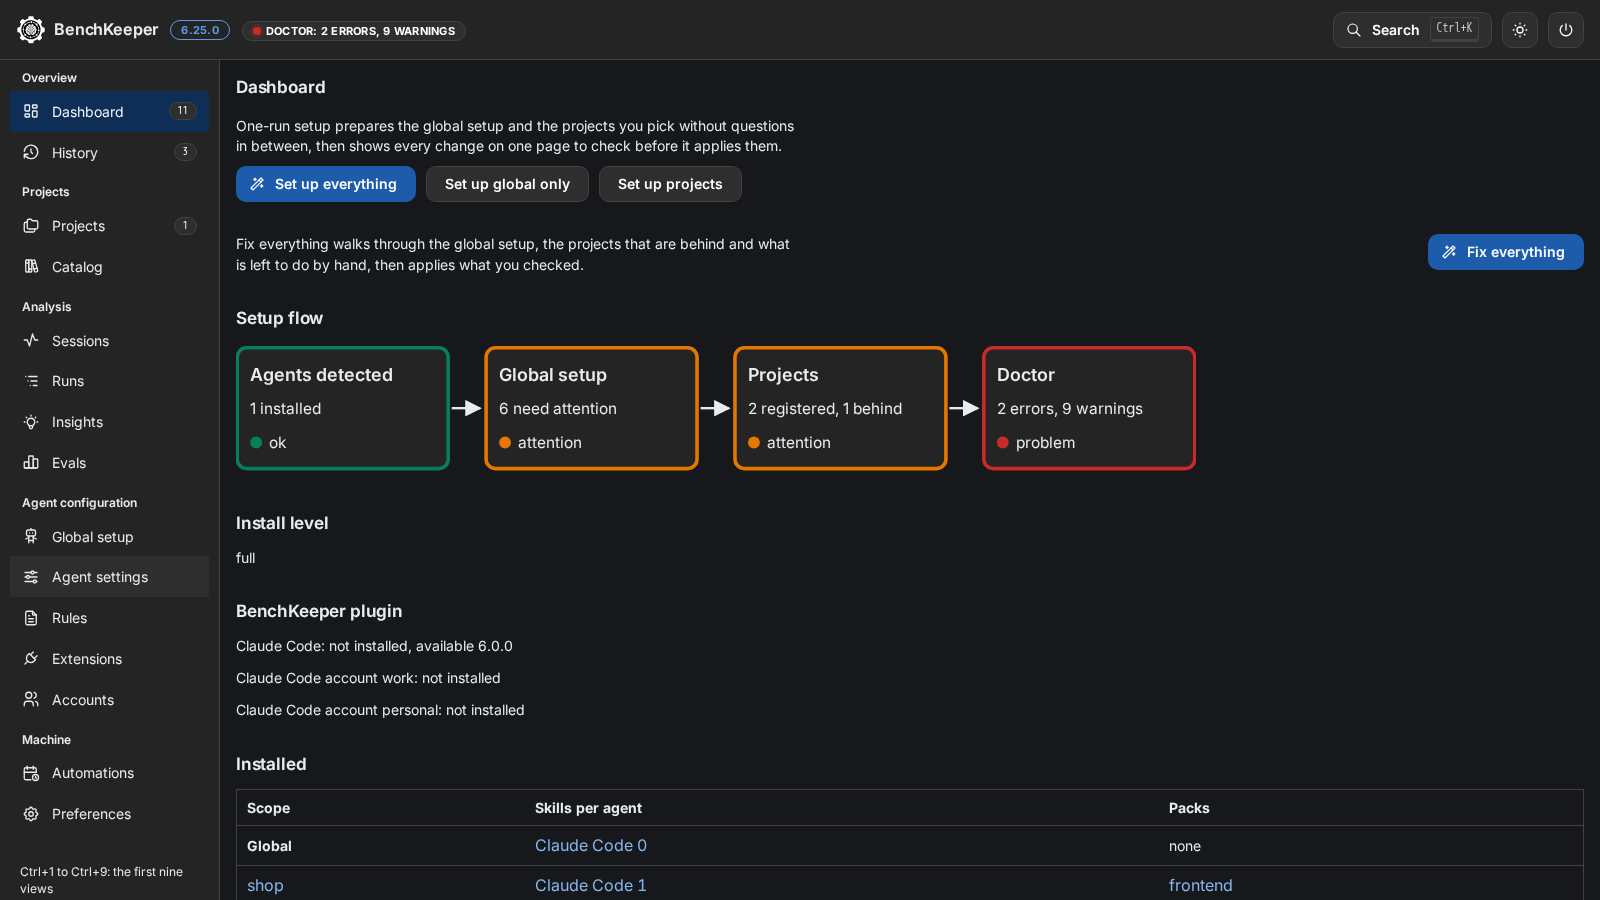
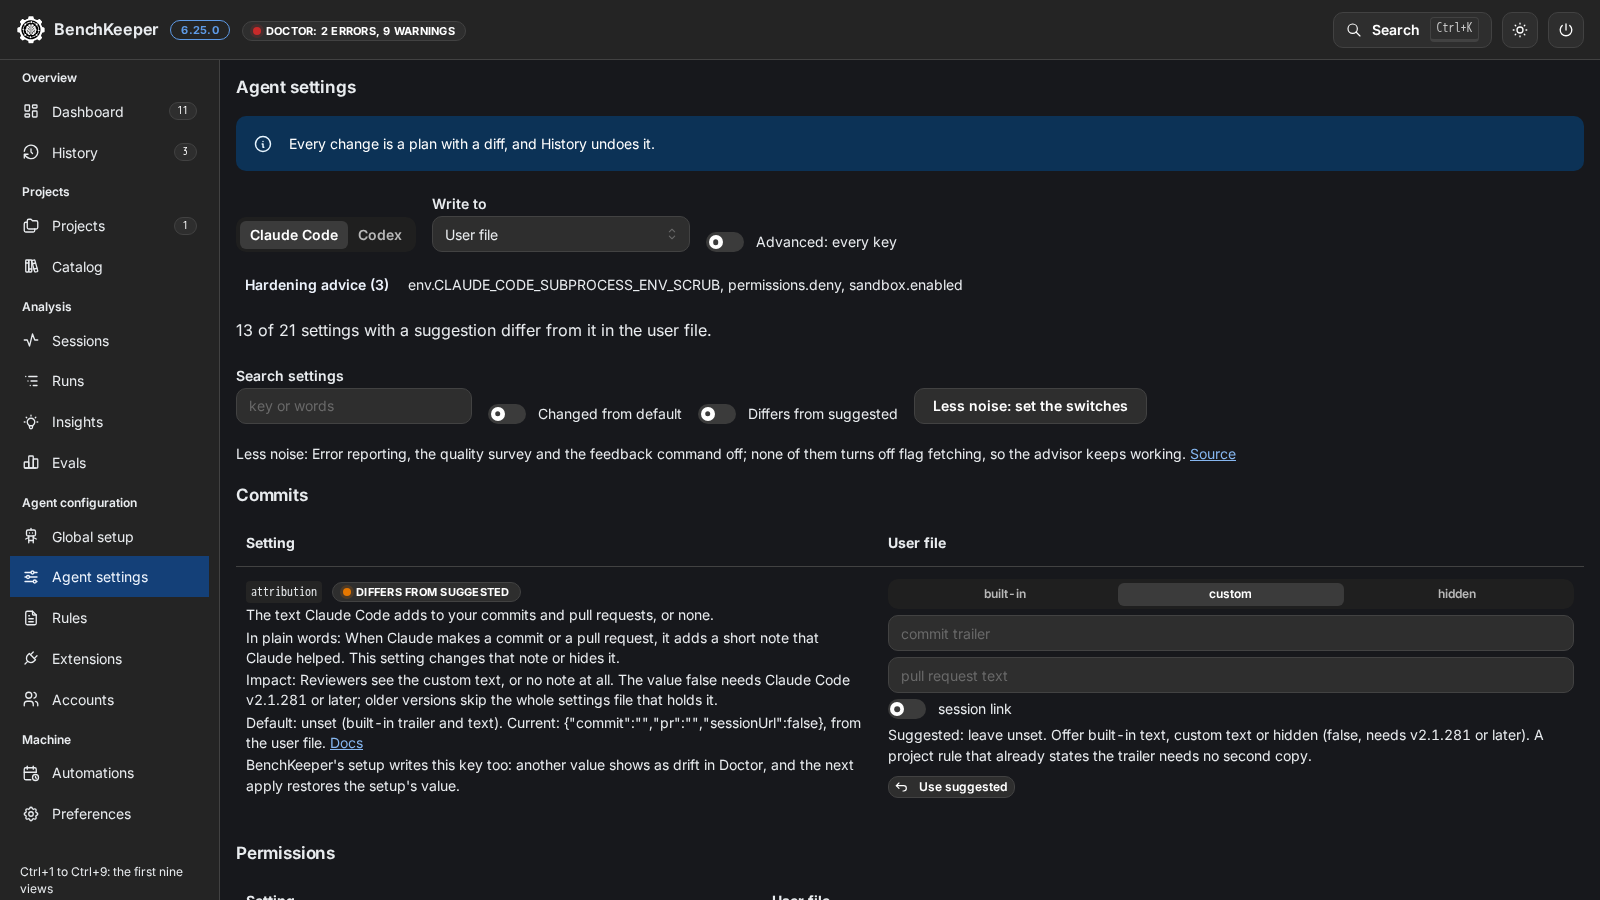
feat(app): agent settings compare each row with the suggestion
Each row marks whether the chosen file matches BenchKeeper's suggestion, shows the value in effect when another source wins, and Use suggested opens the change plan at once. Hardening advice folds into one line, conflicts stay in full with the default, the risk and what the fix changes on their own lines, and a note fix plans the suggestion of its setting. The settings files table folds to the foot of the page, the command line block is gone, and an empty search offers to clear the filters.

Refs #532

diff --git a/app/ui/agentsettings.jsx b/app/ui/agentsettings.jsx
@@ -1,9 +1,9 @@
-import { Anchor, Button, Code, Group, NumberInput, SegmentedControl, Select, Stack, Switch, Table, Text, TextInput } from '@mantine/core';
+import { Anchor, Badge, Button, Code, Group, NumberInput, SegmentedControl, Select, Stack, Switch, Table, Text, TextInput } from '@mantine/core';
 import { IconArrowBackUp, IconListCheck } from '@tabler/icons-react';
-import { useRef, useState } from 'react';
+import { useEffect, useRef, useState } from 'react';
 import { api } from './api.js';
-import { Cli, Plan, Section, SettingFacts } from './parts.jsx';
-import { Loading, Note, href, icon, useAnnounce, useApi } from './shell.jsx';
+import { Folded, Plan, Section, SettingFacts } from './parts.jsx';
+import { Dot, Loading, Note, href, icon, useAnnounce, useApi } from './shell.jsx';
 
 const LAYERS = { user: 'User file', project: 'Project file', local: 'Local file' };
 const SHOWN = 150;
@@ -12,13 +12,43 @@ const UNSET = '(unset)';
 const NOFADE = { label: { transition: 'none' } };
 const text = (v) => (v === undefined ? '' : typeof v === 'string' ? v : JSON.stringify(v));
 const KIND = { conflict: 'Conflicting settings', hardening: 'Hardening', ignored: 'Ignored setting', note: 'Note' };
+const FROM = { user: 'the user file', project: 'the project file', local: 'the local file', managed: 'managed settings', environment: 'the environment' };
+const ownOf = (row, layer) => row.sets?.find((x) => x.layer === layer)?.value;
+// What a suggestion compares with: an environment switch is set or not, "leave unset" is no value.
+const norm = (row, v) => (row.type === 'switch' ? v != null && v !== false : v ?? null);
+const matches = (row, v) => JSON.stringify(norm(row, v)) === JSON.stringify(norm(row, row.suggest.value));
+const differs = (row, layer) => !!row.suggest && !matches(row, ownOf(row, layer));
 
-// A note on the settings: what it found, the default, the risk and what the fix changes, then a button.
+// A note on the settings: what it found, then the default, the risk and what the fix changes on lines of their own, then the buttons.
 const SettingNote = ({ n, children }) => (
   <Note color={n.level === 'warning' ? 'yellow' : 'blue'}>
-    <Text span fw={600}>{KIND[n.kind]}. </Text>{n.message} {n.default} {n.risk} {n.fixChanges} <Anchor size="sm" c="inherit" underline="always" href={n.source} target="_blank" rel="noreferrer">Source</Anchor> {children}
+    <Stack gap={4}>
+      <Text size="sm"><Text span fw={600}>{KIND[n.kind]}. </Text>{n.message}</Text>
+      {n.default && <Text size="sm"><Text span fw={600}>Default: </Text>{n.default}</Text>}
+      {n.risk && <Text size="sm"><Text span fw={600}>Risk: </Text>{n.risk}</Text>}
+      {n.fixChanges && <Text size="sm"><Text span fw={600}>What the fix changes: </Text>{n.fixChanges}</Text>}
+      <Group gap="xs">{children}<Anchor size="sm" c="inherit" underline="always" href={n.source} target="_blank" rel="noreferrer">Source</Anchor></Group>
+    </Stack>
   </Note>
 );
+
+// Under the value: the value in effect when another file or the environment wins, then the suggestion with its marker.
+function Compare({ row, layer, own, edit, use }) {
+  const s = row.suggest;
+  const shown = edit === undefined ? own : edit;
+  return (
+    <>
+      {row.from !== layer && row.from !== 'default' && <Text size="sm">In effect: {text(row.value)}, from {FROM[row.from] ?? row.from}.</Text>}
+      {s && (matches(row, shown) ? <Text size="sm">Matches suggested{edit === undefined ? '' : ' (in your changes)'}.</Text> : (
+        <Group gap="xs">
+          <Text size="sm">Suggested: {s.value == null ? 'leave unset' : text(s.value)}. {s.reason}</Text>
+          {use && <Button size="compact-xs" variant="default" leftSection={icon(IconArrowBackUp)} aria-label={`Use suggested for ${row.key}`} onClick={use}>Use suggested</Button>}
+          {s.source && <Anchor underline="always" size="sm" href={s.source} target="_blank" rel="noreferrer">Source</Anchor>}
+        </Group>
+      ))}
+    </>
+  );
+}
 
 // One control for one key; edit is undefined (untouched), null (remove the key) or the new value.
 function ValueControl({ row, own, edit, setEdit }) {
@@ -64,24 +94,17 @@ function ValueControl({ row, own, edit, setEdit }) {
   }
 }
 
-function Row({ row, layer, edits, setEdit }) {
-  const own = row.sets?.find((x) => x.layer === layer)?.value;
+function Row({ row, layer, edits, setEdit, stage }) {
+  const own = ownOf(row, layer);
   const edit = edits[row.key];
-  const suggest = row.suggest;
+  const editable = row.editable !== false;
   return (
     <Table.Tr>
       <Table.Td>
         <Stack gap={2}>
-          <Code>{row.key}</Code>
+          <Group gap="xs"><Code id={`setting-${row.key}`} tabIndex={-1}>{row.key}</Code>{differs(row, layer) && <Badge variant="default" miw="max-content" leftSection={<Dot color="yellow" />}>Differs from suggested</Badge>}</Group>
           <SettingFacts f={row} />
           {row.setByApp && <Text size="sm">BenchKeeper's setup writes this key too: another value shows as drift in Doctor, and the next apply restores the setup's value.</Text>}
-          {suggest && (own === undefined && edit === undefined) && (
-            <Group gap="xs">
-              <Text size="sm">Suggested: {suggest.value == null ? 'leave unset' : text(suggest.value)}. {suggest.reason}</Text>
-              {suggest.value != null && <Button size="compact-xs" variant="default" leftSection={icon(IconArrowBackUp)} aria-label={`Use suggestion for ${row.key}`} onClick={() => setEdit(row.key, suggest.value)}>Use suggestion</Button>}
-              {suggest.source && <Anchor underline="always" size="sm" href={suggest.source} target="_blank" rel="noreferrer">Source</Anchor>}
-            </Group>
-          )}
           {row.notes?.map((n) => (
             <Note key={n.id} color={n.level === 'warning' ? 'yellow' : 'blue'} p="xs">
               {n.message} <Anchor size="sm" c="inherit" underline="always" href={n.source} target="_blank" rel="noreferrer">Source</Anchor>
@@ -89,18 +112,23 @@ function Row({ row, layer, edits, setEdit }) {
           ))}
         </Stack>
       </Table.Td>
-      <Table.Td miw={200}>{row.editable === false ? <Text size="sm">Not edited here: {row.masked ? 'it holds a secret, shown masked: edit the file by hand' : row.scope ? `it lives in the ${row.scope} file or layer` : 'it is a table, edit the file by hand'}.</Text> : <ValueControl row={row} own={own} edit={edit} setEdit={(v) => setEdit(row.key, v)} />}</Table.Td>
+      <Table.Td miw={200}>
+        <Stack gap={6}>
+          {editable ? <ValueControl row={row} own={own} edit={edit} setEdit={(v) => setEdit(row.key, v)} /> : <Text size="sm">Not edited here: {row.masked ? 'it holds a secret, shown masked: edit the file by hand' : row.scope ? `it lives in the ${row.scope} file or layer` : 'it is a table, edit the file by hand'}.</Text>}
+          <Compare row={row} layer={layer} own={own} edit={edit} use={editable ? () => stage({ [row.key]: row.suggest.value }) : undefined} />
+        </Stack>
+      </Table.Td>
     </Table.Tr>
   );
 }
 
-function Rows({ rows, layer, edits, setEdit, label }) {
+function Rows({ rows, layer, edits, setEdit, stage, label }) {
   if (!rows.length) return <Text size="sm">No setting matches.</Text>;
   return (
     <Table.ScrollContainer minWidth={720} scrollAreaProps={{ viewportProps: { tabIndex: 0, role: 'region', 'aria-label': `${label}, scrollable` } }}>
       <Table aria-label={label} verticalSpacing="sm">
         <Table.Thead><Table.Tr><Table.Th>Setting</Table.Th><Table.Th>{LAYERS[layer]}</Table.Th></Table.Tr></Table.Thead>
-        <Table.Tbody>{rows.map((r) => <Row key={r.key} row={r} layer={layer} edits={edits} setEdit={setEdit} />)}</Table.Tbody>
+        <Table.Tbody>{rows.map((r) => <Row key={r.key} row={r} layer={layer} edits={edits} setEdit={setEdit} stage={stage} />)}</Table.Tbody>
       </Table>
     </Table.ScrollContainer>
   );
@@ -113,12 +141,15 @@ function Editor({ data, agent, layer, dir, edits, setEdit: put, clear, advanced,
   const [error, setError] = useState(null);
   const [busy, setBusy] = useState(false);
   const [showDismissed, setShowDismissed] = useState(false);
+  const [only, setOnly] = useState(false);
+  const [showHardening, setShowHardening] = useState(false);
+  const [target, setTarget] = useState(null);
   // A plan holds the edits of its Review: a later edit drops it, and a pending Review's answer for older edits is ignored, so Apply never clears edits it did not write.
   const rev = useRef(0);
   const setEdit = (key, v) => { put(key, v); rev.current++; setPlan(null); };
   const count = Object.keys(edits).length;
   const q = search.trim().toLowerCase();
-  const match = (r) => (!q || `${r.key} ${r.summary ?? ''} ${r.sentence ?? ''}`.toLowerCase().includes(q)) && (!changed || r.changed);
+  const match = (r) => (!q || `${r.key} ${r.summary ?? ''} ${r.sentence ?? ''}`.toLowerCase().includes(q)) && (!changed || r.changed) && (!only || differs(r, layer));
   const basic = data.settings.filter(match);
   const groups = [...new Set(basic.map((r) => r.group))];
   const adv = (data.advanced ?? []).filter(match);
@@ -128,49 +159,65 @@ function Editor({ data, agent, layer, dir, edits, setEdit: put, clear, advanced,
     try { const p = await api('/api/settings-plan', { agent, layer, dir, ...body }); if (asked === rev.current) setPlan(p); } catch (e) { if (asked === rev.current) setError(e.message); }
     setBusy(false);
   };
+  // Use suggested and a note's fix: the values join the pending edits, and the plan of all of them opens at once.
+  const stage = (fix) => { for (const [k, v] of Object.entries(fix)) setEdit(k, v); review({ edits: { ...edits, ...fix } }); };
+  useEffect(() => { if (plan) document.getElementById('settings-changes-title')?.focus(); }, [plan]);
+  const clearFilters = () => { setSearch(''); setChanged(false); setOnly(false); };
+  // Go to the setting: a filter may hide its row, so focus waits for the render without filters.
+  useEffect(() => { if (target) { document.getElementById(`setting-${target}`)?.focus(); setTarget(null); } }, [target]);
+  const rowsOf = (n) => (n.keys ?? []).map((k) => data.settings.find((r) => r.key === k)).filter(Boolean);
+  const fixOf = (n) => Object.fromEntries(rowsOf(n).filter((r) => r.editable !== false && differs(r, layer)).map((r) => [r.key, r.suggest.value]));
+  const noteButtons = (n) => {
+    const fix = fixOf(n);
+    const first = rowsOf(n)[0];
+    return (
+      <>
+        {Object.keys(fix).length > 0 ? <Button size="compact-xs" variant="default" loading={busy} aria-label={`Fix, review the change: ${n.id}`} onClick={() => stage(fix)}>Fix: review the change</Button>
+          : first && <Button size="compact-xs" variant="default" aria-label={`Go to the setting: ${n.id}`} onClick={() => { clearFilters(); setTarget(first.key); }}>Go to the setting</Button>}
+        <Button size="compact-xs" variant="default" aria-label={`Dismiss, I accept this: ${n.id}`} onClick={() => dismiss(n.id, true)}>Dismiss, I accept this</Button>
+      </>
+    );
+  };
+  const hardening = data.notes.filter((n) => n.kind === 'hardening');
+  const suggested = data.settings.filter((r) => r.suggest);
   const [status, announce] = useAnnounce();
   // The notes region stays after either click: a dismissed note is listed under Dismissed, a shown one among the notes.
   const dismiss = (id, dismissed) => { setError(null); api('/api/settings-dismiss', { id, dismissed }).then(() => { onApplied(); announce('setting-notes', `${dismissed ? 'Dismissed' : 'Shown again'}: ${id}`); }, (e) => setError(e.message)); };
   const dismissed = data.dismissed ?? [];
   return (
     <Stack gap="lg">
-      <Table.ScrollContainer minWidth={560} scrollAreaProps={{ viewportProps: { tabIndex: 0, role: 'region', 'aria-label': 'Settings files, scrollable' } }}>
-        <Table aria-label="Settings files">
-          <Table.Thead><Table.Tr><Table.Th>Layer</Table.Th><Table.Th>File</Table.Th><Table.Th>State</Table.Th></Table.Tr></Table.Thead>
-          <Table.Tbody>
-            {data.layers.map((l) => (
-              <Table.Tr key={`${l.layer}-${l.path}`}>
-                <Table.Td>{l.layer}</Table.Td>
-                <Table.Td><Code>{l.path}</Code></Table.Td>
-                <Table.Td>{l.error ? `unreadable: ${l.error}` : l.readOnly ? (l.exists ? 'read-only, set by whoever manages this machine' : 'not present') : l.exists ? 'present' : 'not created yet'}</Table.Td>
-              </Table.Tr>
-            ))}
-          </Table.Tbody>
-        </Table>
-      </Table.ScrollContainer>
       {data.layers.filter((l) => l.error && !l.readOnly).map((l) => <Note key={l.path} color="red"><Text span fw={600}>This file is not edited. </Text>{l.path} cannot be read ({l.error}). {agent === 'claude' ? 'Claude Code reads strict JSON and skips the whole file on one error.' : ''} Fix it by hand first.</Note>)}
       {(data.notes.length > 0 || dismissed.length > 0) && (
         <Stack gap="xs" role="region" aria-label="Notes on the settings" id="setting-notes" tabIndex={-1}>
           {status}
-          {data.notes.map((n) => <SettingNote key={n.id} n={n}><Button size="compact-xs" variant="default" aria-label={`Dismiss, I accept this: ${n.id}`} onClick={() => dismiss(n.id, true)}>Dismiss, I accept this</Button></SettingNote>)}
+          {data.notes.filter((n) => n.kind !== 'hardening').map((n) => <SettingNote key={n.id} n={n}>{noteButtons(n)}</SettingNote>)}
+          {hardening.length > 0 && (
+            <Group gap="xs">
+              <Button size="compact-sm" variant="subtle" aria-expanded={showHardening} onClick={() => setShowHardening(!showHardening)}>Hardening advice ({hardening.length})</Button>
+              {!showHardening && <Text size="sm" style={{ overflowWrap: 'anywhere' }}>{hardening.flatMap((n) => rowsOf(n).map((r) => r.key).slice(0, 1)).join(', ')}</Text>}
+            </Group>
+          )}
+          {showHardening && hardening.map((n) => <SettingNote key={n.id} n={n}>{noteButtons(n)}</SettingNote>)}
           {dismissed.length > 0 && <Group><Button size="compact-sm" variant="subtle" aria-expanded={showDismissed} onClick={() => setShowDismissed(!showDismissed)}>Dismissed ({dismissed.length})</Button></Group>}
           {showDismissed && dismissed.map((n) => <SettingNote key={n.id} n={n}><Button size="compact-xs" variant="default" aria-label={`Show again: ${n.id}`} onClick={() => dismiss(n.id, false)}>Show again</Button></SettingNote>)}
         </Stack>
       )}
+      <Text>{suggested.filter((r) => differs(r, layer)).length} of {suggested.length} settings with a suggestion differ from it in the {LAYERS[layer].toLowerCase()}.</Text>
       <Group align="flex-end">
         <TextInput label="Search settings" placeholder="key or words" value={search} onChange={(e) => setSearch(e.currentTarget.value)} />
         <Switch label="Changed from default" checked={changed} onChange={(e) => setChanged(e.currentTarget.checked)} />
+        <Switch label="Differs from suggested" checked={only} onChange={(e) => setOnly(e.currentTarget.checked)} />
         {data.bundles?.map((b) => <Button key={b.id} variant="default" loading={busy} onClick={() => review({ bundle: b.id })}>{b.label}: set the switches</Button>)}
       </Group>
       {data.bundles?.map((b) => <Text key={b.id} size="sm">{b.label}: {b.sentence} <Anchor underline="always" size="sm" href={b.source} target="_blank" rel="noreferrer">Source</Anchor></Text>)}
       {groups.map((g) => (
-        <Section key={g} title={g}><Rows rows={basic.filter((r) => r.group === g)} layer={layer} edits={edits} setEdit={setEdit} label={g} /></Section>
+        <Section key={g} title={g}><Rows rows={basic.filter((r) => r.group === g)} layer={layer} edits={edits} setEdit={setEdit} stage={stage} label={g} /></Section>
       ))}
-      {!groups.length && !advanced && <Text>No setting matches.</Text>}
+      {!groups.length && !advanced && <Group gap="sm"><Text>No setting matches.</Text><Button size="xs" variant="default" onClick={clearFilters}>Clear search and filters</Button></Group>}
       {advanced && (
         <Section title="Every key of the pinned schemas">
           <Text size="sm">{adv.length} keys{adv.length > SHOWN ? `, the first ${SHOWN} shown: search to narrow` : ''}. A value is JSON, a bare word counts as text.</Text>
-          <Rows rows={adv.slice(0, SHOWN)} layer={layer} edits={edits} setEdit={setEdit} label="Advanced keys" />
+          <Rows rows={adv.slice(0, SHOWN)} layer={layer} edits={edits} setEdit={setEdit} stage={stage} label="Advanced keys" />
         </Section>
       )}
       {advanced && data.env && (
@@ -209,12 +256,28 @@ function Editor({ data, agent, layer, dir, edits, setEdit: put, clear, advanced,
           ) : <Text size="sm">None.</Text>}
         </Section>
       )}
+      <Folded title="Settings files" name={`settings files (${data.layers.length})`} label={[`Show settings files (${data.layers.length})`, 'Hide settings files']}>
+        <Table.ScrollContainer minWidth={560} scrollAreaProps={{ viewportProps: { tabIndex: 0, role: 'region', 'aria-label': 'Settings files, scrollable' } }}>
+          <Table aria-label="Settings files">
+            <Table.Thead><Table.Tr><Table.Th>Layer</Table.Th><Table.Th>File</Table.Th><Table.Th>State</Table.Th></Table.Tr></Table.Thead>
+            <Table.Tbody>
+              {data.layers.map((l) => (
+                <Table.Tr key={`${l.layer}-${l.path}`}>
+                  <Table.Td>{l.layer}</Table.Td>
+                  <Table.Td><Code>{l.path}</Code></Table.Td>
+                  <Table.Td>{l.error ? `unreadable: ${l.error}` : l.readOnly ? (l.exists ? 'read-only, set by whoever manages this machine' : 'not present') : l.exists ? 'present' : 'not created yet'}</Table.Td>
+                </Table.Tr>
+              ))}
+            </Table.Tbody>
+          </Table>
+        </Table.ScrollContainer>
+      </Folded>
       <Group>
         <Button leftSection={icon(IconListCheck)} loading={busy} disabled={!count} onClick={() => review({ edits })}>Review {count} change{count === 1 ? '' : 's'}</Button>
         {count > 0 && <Button variant="default" onClick={() => { clear(); rev.current++; setPlan(null); }}>Discard changes</Button>}
       </Group>
       {error && <Note color="red" title="Not planned">{error}</Note>}
-      {plan && <Section title="Changes"><Plan key={plan.planId} plan={plan} onDone={() => { clear(); onApplied(); }} /></Section>}
+      {plan && <Section title="Changes" id="settings-changes"><Plan key={plan.planId} plan={plan} onDone={() => { clear(); onApplied(); }} /></Section>}
     </Stack>
   );
 }
@@ -249,7 +312,6 @@ export function AgentSettings({ overview, params, refresh, project }) {
           {(data) => <Editor key={`${agent}-${layer}-${chosen}`} data={data} agent={agent} layer={layer} dir={chosen} edits={edits} setEdit={setEdit} clear={() => setEdits({})} advanced={advanced} onApplied={() => { state.reload(); refresh(); }} />}
         </Loading>
       ) : null}
-      <Cli>{`benchkeeper settings list --agent ${agent}\nbenchkeeper settings set <key> <value> --agent ${agent}\nbenchkeeper settings set <key> --unset --agent ${agent}`}</Cli>
     </Stack>
   );
 }
